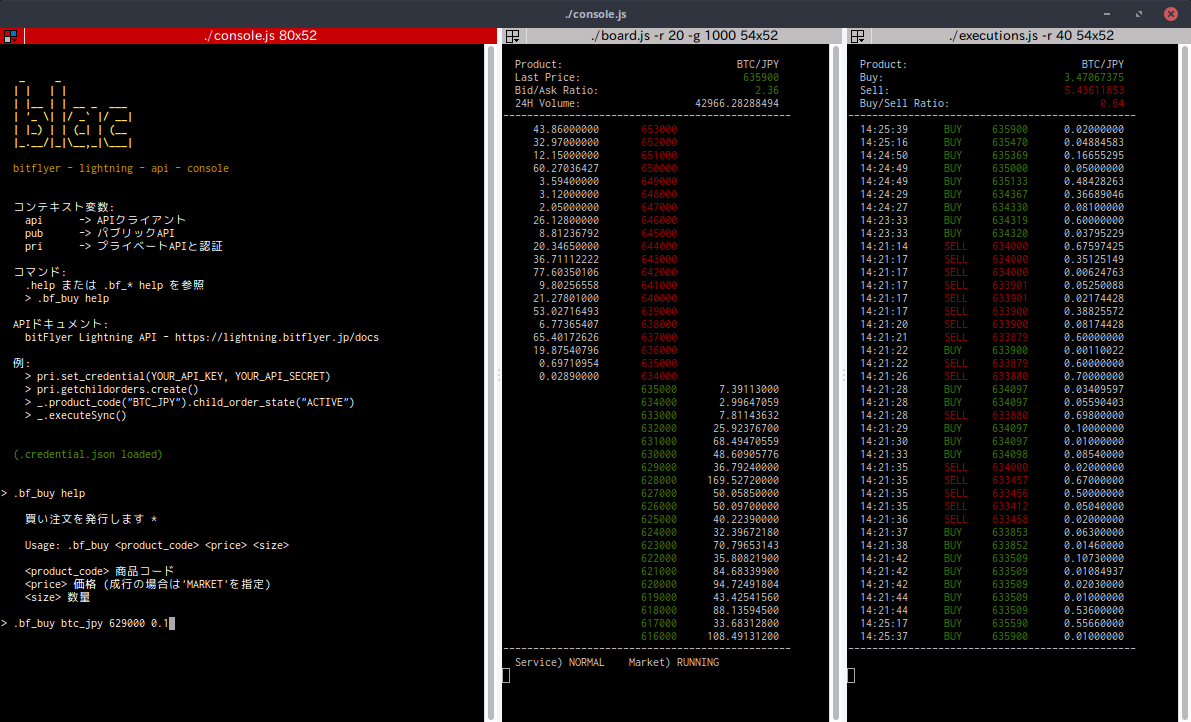
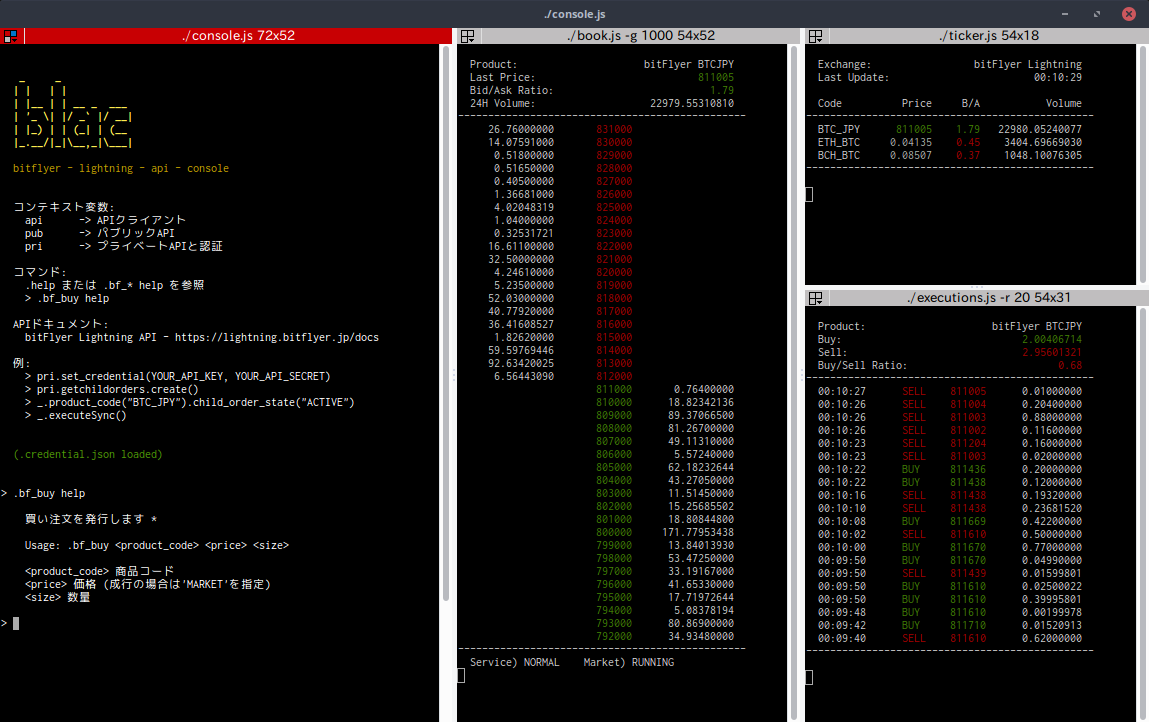
update readme

diff --git a/README.md b/README.md
@@ -7,12 +7,15 @@ BLAC (Bitflyer Lightning API Console) は ビットコイン取引所 [bitFlyer]
 [bitFlyer Lightning API](https://bitflyer.jp/docs) を使用した非公式のCLIツールパッケージです。
 
 Lightning APIクライアントを統合したjavascriptの対話型コンソールプログラム、
-リアルタイム更新の板表示プログラムと約定履歴表示プログラムを含みます。
+リアルタイム更新の板表示プログラム、約定履歴表示プログラムとティッカー表示プログラムを含みます。
 
 当プログラムは"experimental"です。  
 十分なテストが行われていません。オーダー発行を行う場合は最初に少額でお試しください。
 
 ※U.S.リージョンには対応していません
+
+
+姉妹品としてQuoine Exchange APIを使用した [QUAC](https://github.com/yamorijp/quac)もあります。
 
 
 ## 導入手順
@@ -66,7 +69,7 @@ APIの詳細は、bitFlyerによる[API Documentation](https://lightning.bitflye
 
 
 
-## 板表示プログラム (board.js)
+## 板表示プログラム (book.js)
 
 リアルタイム更新の板表示プログラムです。  
 値段範囲で注文をまとめるグルーピング表示に対応しています。(`-g`オプション）
@@ -74,13 +77,13 @@ APIの詳細は、bitFlyerによる[API Documentation](https://lightning.bitflye
 
       オプション:
         
-        -p, --product <code>  プロダクトコード (BTC_JPY|ETH_BTC|BCH_BTC|FX_BTC_JPY)
-        -r, --row <n>         買いと売り注文の表示行数 (デフォルト: 24)
+        -p, --product <code>  プロダクトコード (デフォルト: BTC_JPY)
+        -r, --row <n>         買いと売り注文の表示行数 (デフォルト: 20)
         -g, --group <n>       指定範囲の注文をまとめて表示 (デフォルト: 無効)
         
       例:
         
-        $ node board.js -p BTC_JPY -r 32 -g 1000
+        $ node book.js -p BTC_JPY -r 32 -g 100
       
 
 ## 約定履歴表示プログラム (executions.js)
@@ -90,12 +93,27 @@ APIの詳細は、bitFlyerによる[API Documentation](https://lightning.bitflye
 
       オプション:
     
-        -p, --product <code>  プロダクトコード (BTC_JPY|ETH_BTC|BCH_BTC|FX_BTC_JPY)
-        -r, --row <n>         履歴の表示行数 (デフォルト: 48)
+        -p, --product <code>  プロダクトコード (デフォルト: BTC_JPY)
+        -r, --row <n>         履歴の表示行数 (デフォルト: 40)
     
       例:
     
         $ node executions.js -p ETH_BTC -r 20
+
+
+## ティッカー表示プログラム (ticker.js)
+
+リアルタイム更新のティッカー表示プログラムです。
+
+
+      オプション:
+    
+        -p, --product <code>  カンマ区切りの通貨ペアコード (デフォルト: "BTC_JPY,ETH_BTC,BCH_BTC")
+    
+      例:
+    
+        $ node ticker.js -p "BTC_USD,ETH_BTC"
+
 
 
 ## ライセンス
@@ -103,5 +121,5 @@ APIの詳細は、bitFlyerによる[API Documentation](https://lightning.bitflye
 MIT
 
 
-bitcoin: `1BpLZm4JEFiDqAnaexuYMhGJZKdRQJKixP`
+bitcoin: `1BpLZm4JEFiDqAnaexuYMhGJZKdRQJKixP`  
 monacoin: `MEaJSzymtvpB7AtrryVzn9LeZYhCrustpJ`
